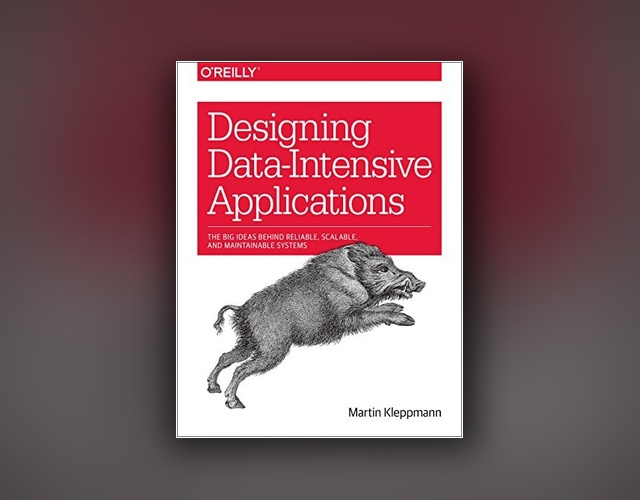
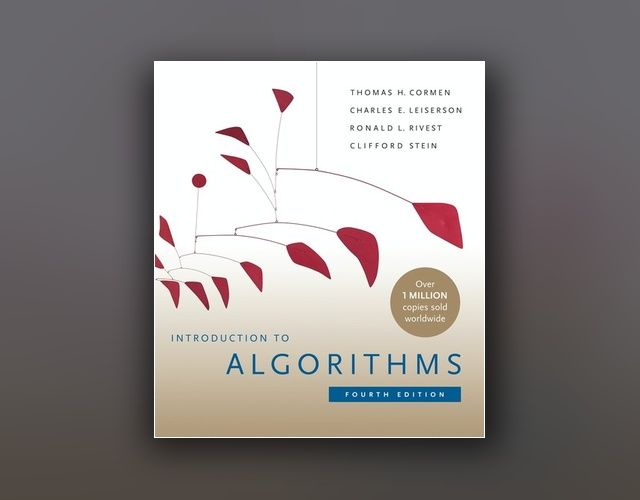
feat(catalog): replace data-intensive book with Introduction to Algorithms (CLRS)

diff --git a/src/data/mockData.js b/src/data/mockData.js
@@ -213,33 +213,33 @@ export const initialBooks = [
   },
   {
     id: 8,
-    isbn: '978-149-204-113-9',
-    title: 'تصميم التطبيقات كثيفة البيانات',
-    title_ar: 'تصميم التطبيقات كثيفة البيانات',
-    title_en: 'Designing Data-Intensive Applications',
-    author: 'مارتن كليبمان',
-    author_ar: 'مارتن كليبمان',
-    author_en: 'Martin Kleppmann',
-    publisher: "O'Reilly Media",
-    publisher_ar: "O'Reilly Media",
-    publisher_en: "O'Reilly Media",
-    publication_year: 2021,
+    isbn: '978-026-204-630-5',
+    title: 'مقدمة في الخوارزميات: المرجع الشامل',
+    title_ar: 'مقدمة في الخوارزميات: المرجع الشامل',
+    title_en: 'Introduction to Algorithms',
+    author: 'توماس كورمن وتشارلز ليسرسون',
+    author_ar: 'توماس كورمن وتشارلز ليسرسون',
+    author_en: 'Thomas H. Cormen & Charles E. Leiserson',
+    publisher: 'The MIT Press',
+    publisher_ar: 'The MIT Press',
+    publisher_en: 'The MIT Press',
+    publication_year: 2022,
     language: 'English',
     language_ar: 'الإنجليزية',
     language_en: 'English',
     category: 'ذكاء اصطناعي وتكنولوجيا',
     category_en: 'AI & Technology',
-    cover_image: '/images/books/data-intensive.jpg',
-    description: 'The definitive guide to the architecture, storage engines, distributed consensus, transactions, and reliability of modern database systems.',
-    description_ar: 'الدليل المرجعي الشامل لمعمارية نظم البيانات، محركات التخزين، التوافق الموزع، والموثوقية في النظم السحابية وقواعد البيانات الحديثة.',
-    description_en: 'The definitive guide to the architecture, storage engines, distributed consensus, transactions, and reliability of modern database systems.',
+    cover_image: '/images/books/algorithms.jpg',
+    description: 'The definitive global textbook and foundational reference on modern algorithms, data structures, dynamic programming, and computational complexity.',
+    description_ar: 'المرجع الأكاديمي القياسي عالمياً في تصميم وتحليل الخوارزميات، وهياكل البيانات المتقدمة، ونظريات التعقيد الحسابي، وحل المسائل البرمجية الكبرى.',
+    description_en: 'The definitive global textbook and foundational reference on modern algorithms, data structures, dynamic programming, and computational complexity.',
     shelf_location: 'جناح التقنية - رف CS-18',
     shelf_location_en: 'Tech Wing - Shelf CS-18',
     total_copies: 3,
     available_copies: 1,
     rating: 4.95,
     ratings_count: 1,
-    match_keywords: ['قواعد بيانات', 'database', 'distributed systems', 'architecture', 'mysql', 'بيانات', 'nosql', 'storage engines']
+    match_keywords: ['خوارزميات', 'algorithms', 'data structures', 'clrs', 'هياكل بيانات', 'sorting', 'graphs', 'complexity']
   }
 ];
 
@@ -287,7 +287,7 @@ export const initialBookCopies = [
   { id: 703, book_id: 7, barcode: 'BC-707-03', status: 'available', shelf_location: 'جناح الروايات - رف NOV-03', shelf_location_en: 'Novels Wing - Shelf NOV-03' },
   { id: 704, book_id: 7, barcode: 'BC-707-04', status: 'borrowed', shelf_location: 'جناح الروايات - رف NOV-03', shelf_location_en: 'Novels Wing - Shelf NOV-03' },
 
-  // Book 8: Designing Data-Intensive Applications (3 copies: 1 available, 2 borrowed)
+  // Book 8: Introduction to Algorithms (3 copies: 1 available, 2 borrowed)
   { id: 801, book_id: 8, barcode: 'BC-808-01', status: 'available', shelf_location: 'جناح التقنية - رف CS-18', shelf_location_en: 'Tech Wing - Shelf CS-18' },
   { id: 802, book_id: 8, barcode: 'BC-808-02', status: 'borrowed', shelf_location: 'جناح التقنية - رف CS-18', shelf_location_en: 'Tech Wing - Shelf CS-18' },
   { id: 803, book_id: 8, barcode: 'BC-808-03', status: 'borrowed', shelf_location: 'جناح التقنية - رف CS-18', shelf_location_en: 'Tech Wing - Shelf CS-18' }
@@ -441,10 +441,10 @@ export const initialLoans = [
     id: 5,
     copy_id: 802,
     book_id: 8,
-    book_title: 'Designing Data-Intensive Applications',
-    book_title_en: 'Designing Data-Intensive Applications',
-    book_author: 'Martin Kleppmann',
-    book_author_en: 'Martin Kleppmann',
+    book_title: 'Introduction to Algorithms',
+    book_title_en: 'Introduction to Algorithms',
+    book_author: 'Thomas H. Cormen & Charles E. Leiserson',
+    book_author_en: 'Thomas H. Cormen & Charles E. Leiserson',
     copy_barcode: 'BC-808-02',
     member_id: 4,
     member_name: 'فاطمة ناصر الزهراني',
@@ -515,8 +515,8 @@ export const initialFines = [
     member_name: 'فاطمة ناصر الزهراني',
     member_name_en: 'Fatimah Nasser Al-Zahrani',
     member_code: 'MEM-2026-0158',
-    book_title: 'Designing Data-Intensive Applications',
-    book_title_en: 'Designing Data-Intensive Applications',
+    book_title: 'Introduction to Algorithms',
+    book_title_en: 'Introduction to Algorithms',
     amount: 45.00,
     status: 'unpaid',
     assessed_at: '2026-10-10T00:00:00Z',
